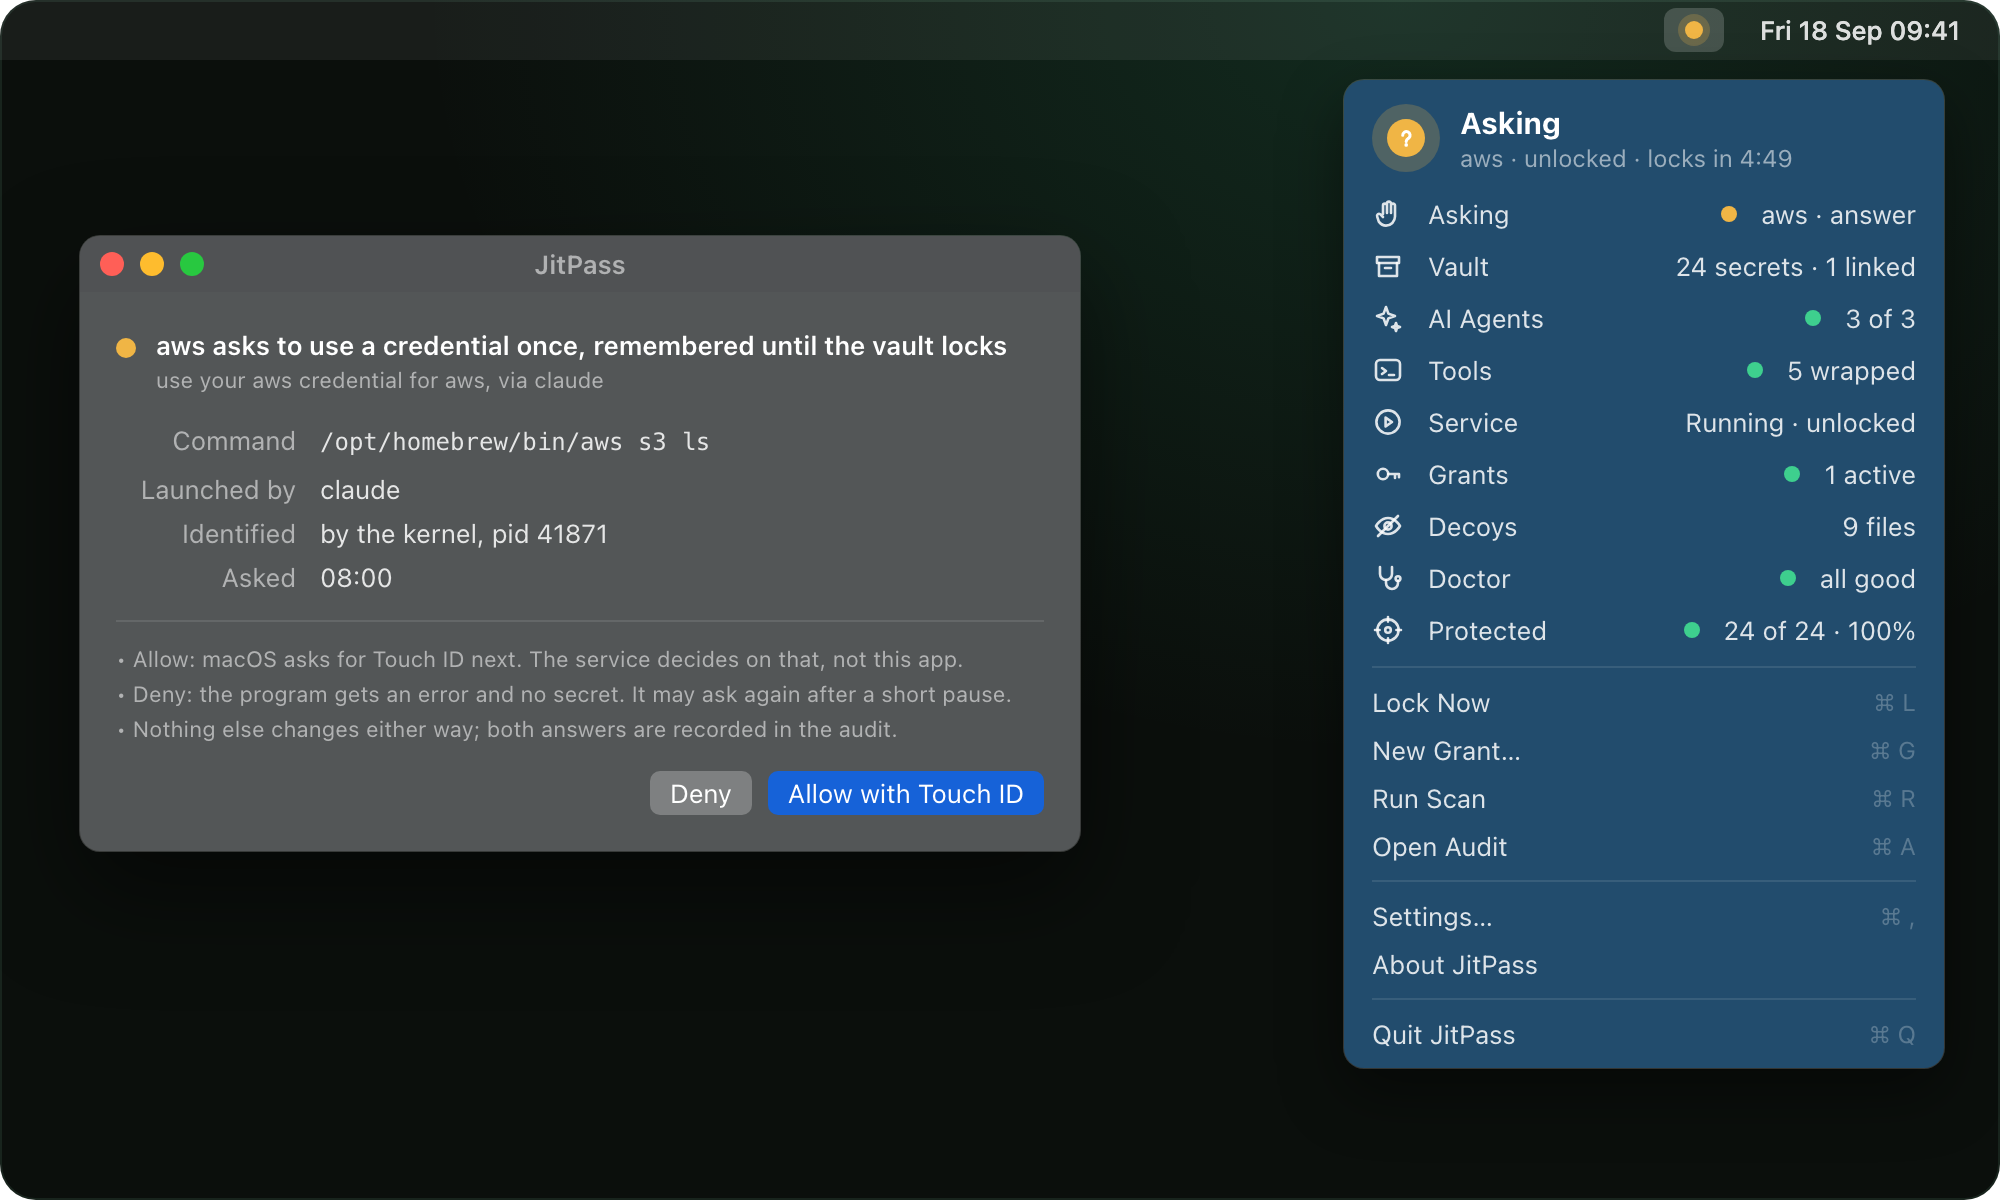
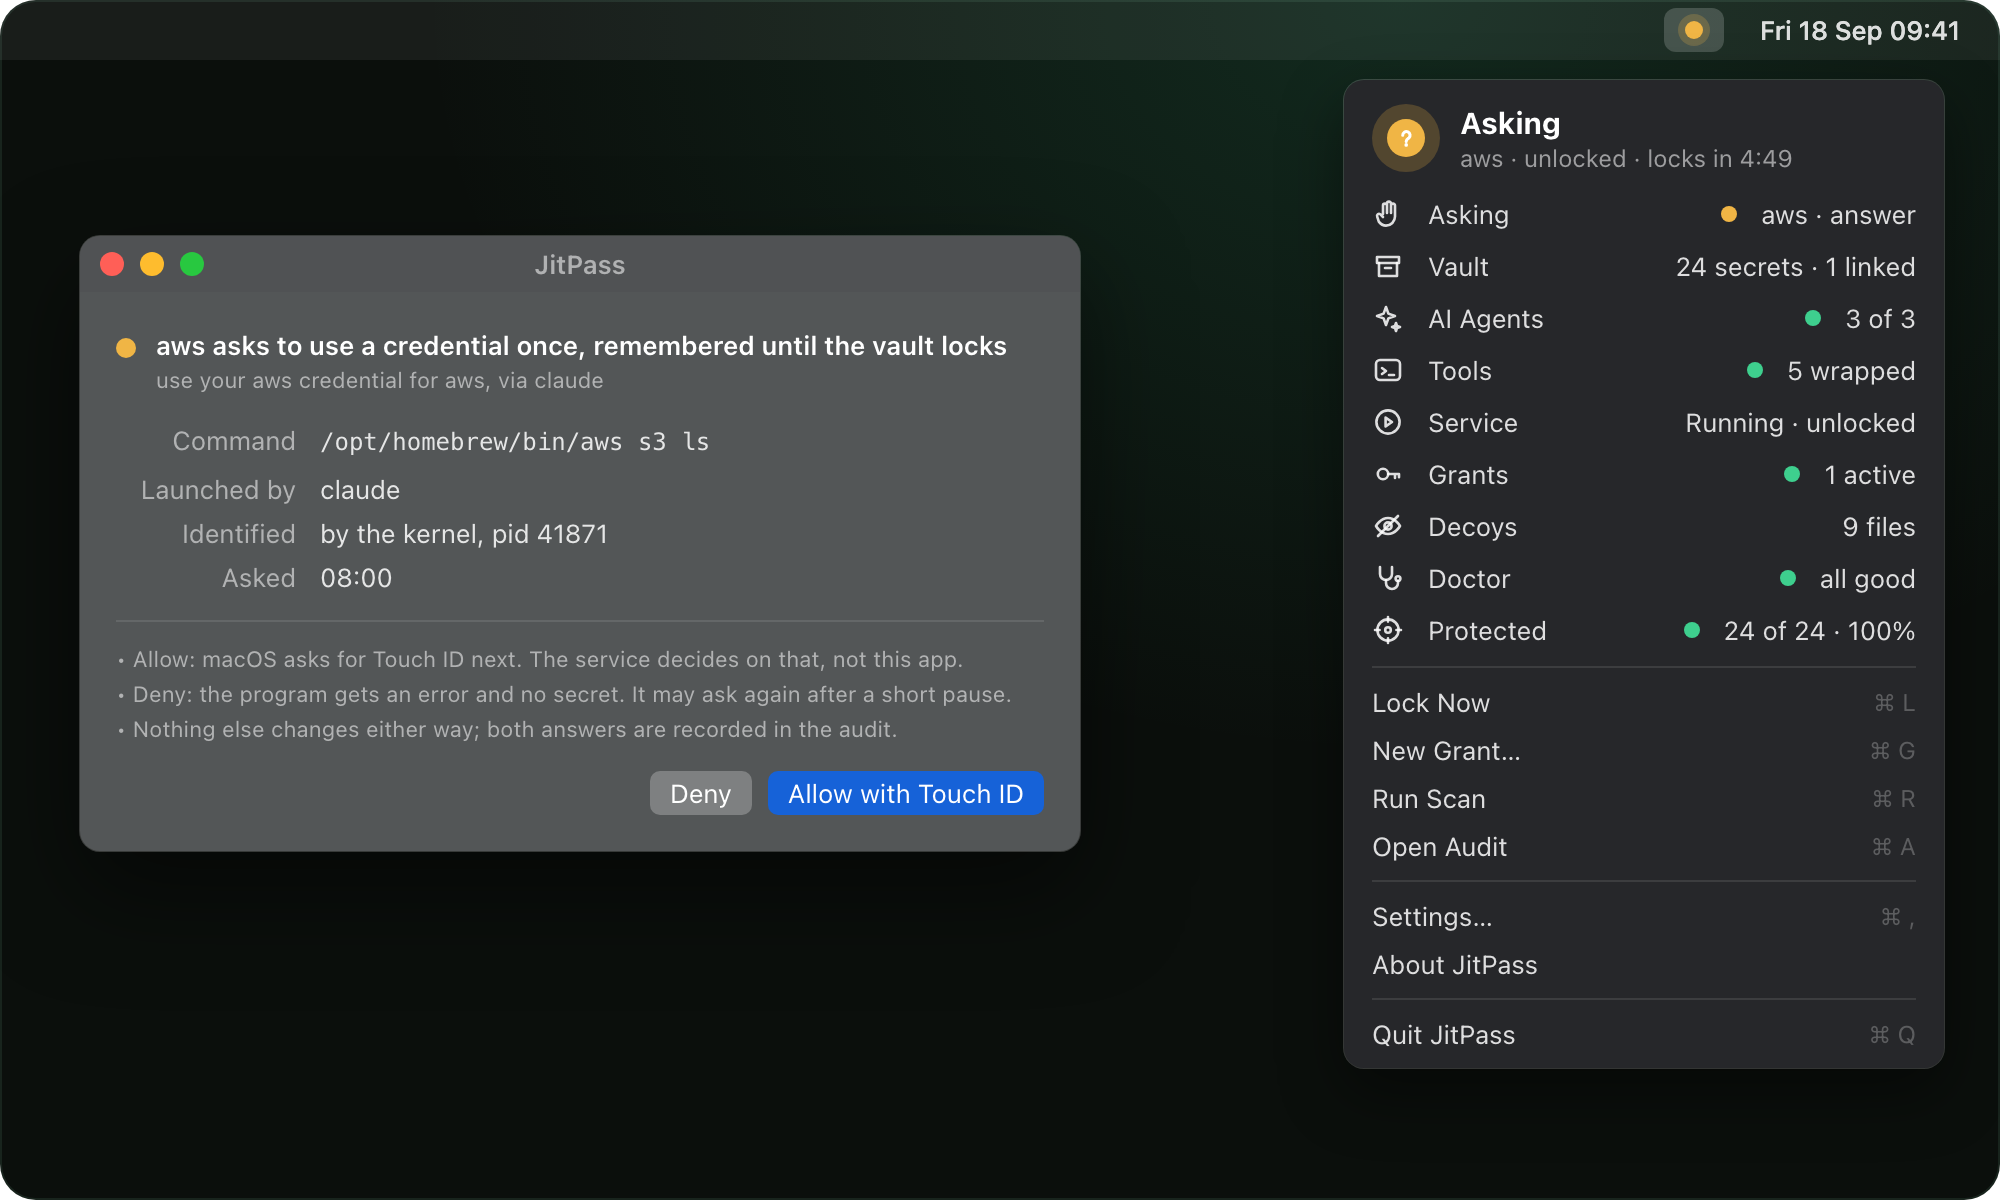
README: the rest of the sections, and a panel that is not blue
- The panel images were drawn in a colour sampled over a blue wallpaper; the
  real panel is translucent, so on the README's dark ground it is now the
  neutral dark material the onboarding canvas uses, matching the windows.
- Audit: the key=value sample needs --format logfmt (the default is now a
  grouped timeline), and decoy reads are named as logged events.
- How it works opens with a plain-language summary and where secrets live:
  a per-secret AES-256-GCM key, wrapped by a device-only keychain key.
- What it does not do becomes a list, adding "not a team secrets manager or a
  cloud vault: nothing syncs".
- The menu bar and install paragraphs are tightened.

Changed region(s): [[0.651, 0.0617, 0.992, 0.8942]]

diff --git a/README.md b/README.md
@@ -109,14 +109,13 @@ faster (`jit scan ~/.aws`). Everything the app does is one of these commands.
 
 <img align="right" src="docs/assets/readme/panel.png" width="250" alt="The JitPass menu bar panel, unlocked: vault, AI agents, tools, grants, decoys, doctor all good, 24 of 24 protected.">
 
-After setup, JitPass is a ring in your menu bar. **Green** means unlocked,
-**red** means locked, **amber** means a program is asking.
+After setup, JitPass is a ring in your menu bar: **green** unlocked, **red**
+locked, **amber** a program is asking.
 
-Click it for the whole picture: what is in the vault, which agents and tools
-are protected, active grants, decoy reads today, and how much of your Mac is
-protected. Lock, grant, scan and audit are one click away, and each window
-behind them (Vault, AI Agents, Tools, Grants, Doctor, Audit, Scan) runs the
-same commands the `jit` CLI does.
+Click it to see your vault, your agents and tools, active grants, today's decoy
+reads, and how much of your Mac is protected. Lock, New Grant, Run Scan and
+Open Audit are one click away, and every window runs the same commands as the
+`jit` CLI.
 
 <br clear="right">
 
@@ -132,12 +131,11 @@ it, linked onto PATH with shell completions. **Without Homebrew,**
 drag it into Applications and open it: it offers to link `jit` onto your PATH
 and checks for a newer release once a day.
 
-Either way it is the same build, signed with a Developer ID and notarized by
-Apple, and Gatekeeper checks it before it first runs. To check it yourself,
-run `jit doctor`: its `jit` line reports `signed CZC6BH93GJ`, the same check
-`jit upgrade` runs before it installs anything. Upgrade with
-`brew upgrade jitpass`, or when the app tells you. Installs and upgrades never
-touch your vault.
+Either way you get the same build, signed with a Developer ID and notarized by
+Apple, and Gatekeeper checks it before it first runs. Check it yourself:
+`jit doctor` reports `signed CZC6BH93GJ`. To update, `brew upgrade jitpass`,
+or the app tells you when a release is out. Installs and updates never touch
+your vault.
 
 <details>
 <summary>Only the command line, for a Mac with no app (the weaker path, and why)</summary>
@@ -272,20 +270,22 @@ same. Details: [process grants](./docs/service/grants.md).
 
 ## See what happened, and who did it
 
-Every use, unlock and refusal lands in a durable log. Arguments are masked, so
-the log proves a command ran without storing the secret it carried.
+Every use, unlock and refusal lands in a durable log, and so does every time a
+program read a decoy. Arguments are masked, so the log proves a command ran
+without storing the secret it carried.
 
 ```console
-$ jit audit --since 1h
+$ jit audit --since 1h --format logfmt
 time=2026-07-24 10:16:22 level=info kind=use op="read a secret" cmd="aws s3 ls" parent=claude secrets=aws/default
 time=2026-07-24 10:31:09 level=warn kind=unlock status=denied method=touchid-or-passcode cmd="node postinstall.js" parent=npm secrets=aws/default
 ```
 
 The first line is the story JitPass exists to tell: `aws/default` read by
 `aws s3 ls`, launched by `claude`. The second is a request you refused: a
-`node postinstall.js` under `npm` reaching for the same keys. Filter with
-`--parent claude`, `--secret aws`, `--status denied` or `--since 3d`, stream
-with `--follow`, or open **Audit** from the menu bar.
+`node postinstall.js` under `npm` reaching for the same keys. Plain `jit audit`
+shows the same events as a grouped timeline, and so does **Audit** in the menu
+bar. Filter with `--parent claude`, `--secret aws`, `--status denied` or
+`--since 3d`, and stream with `--follow`.
 
 ## Undo anything, or remove it all
 
@@ -320,8 +320,16 @@ the app to the Trash is your last click. From the terminal:
 
 ## How it works, mechanically
 
-No kernel extension, no filesystem driver, no FUSE. Three mechanisms, picked by
-what the tool can do:
+**The short version:** your secrets live encrypted in a local vault. A small
+background service holds the unlocked key for the session and hands a real
+value only to a program you approved; everything else reads a decoy.
+
+**Where secrets live.** Each secret is sealed with its own AES-256-GCM key, and
+those keys are wrapped by a master key kept in your login keychain, on this Mac
+only. Nothing is stored in plaintext, and nothing syncs anywhere.
+
+**How a program gets one.** No kernel extension, no filesystem driver, no FUSE.
+Three mechanisms, picked by what the tool can do:
 
 1. **Environment variables into one process, then `execve`.** jit's own image
    is replaced by your command, so the value lives in that one process and jit
@@ -350,9 +358,14 @@ and **[live mounts](./docs/run/mounts.md)**.
 
 ## What it does not do
 
-It does not make an already-compromised account safe, and it does not protect a
-secret once it is in the memory of the program you gave it to. It runs on
-macOS 14+ on Apple Silicon only. The boundaries are stated on one page:
+- It does not make an already-compromised account safe.
+- It does not protect a secret once it is in the memory of the program you gave
+  it to.
+- It is not a team secrets manager or a cloud vault: nothing syncs, and each Mac
+  has its own vault.
+- It runs on macOS 14+ on Apple Silicon only.
+
+Every boundary is stated on one page:
 **[the deliberate limits](./docs/security/brief.md#deliberate-limits-stated-plainly)**.
 
 ## Learn more
